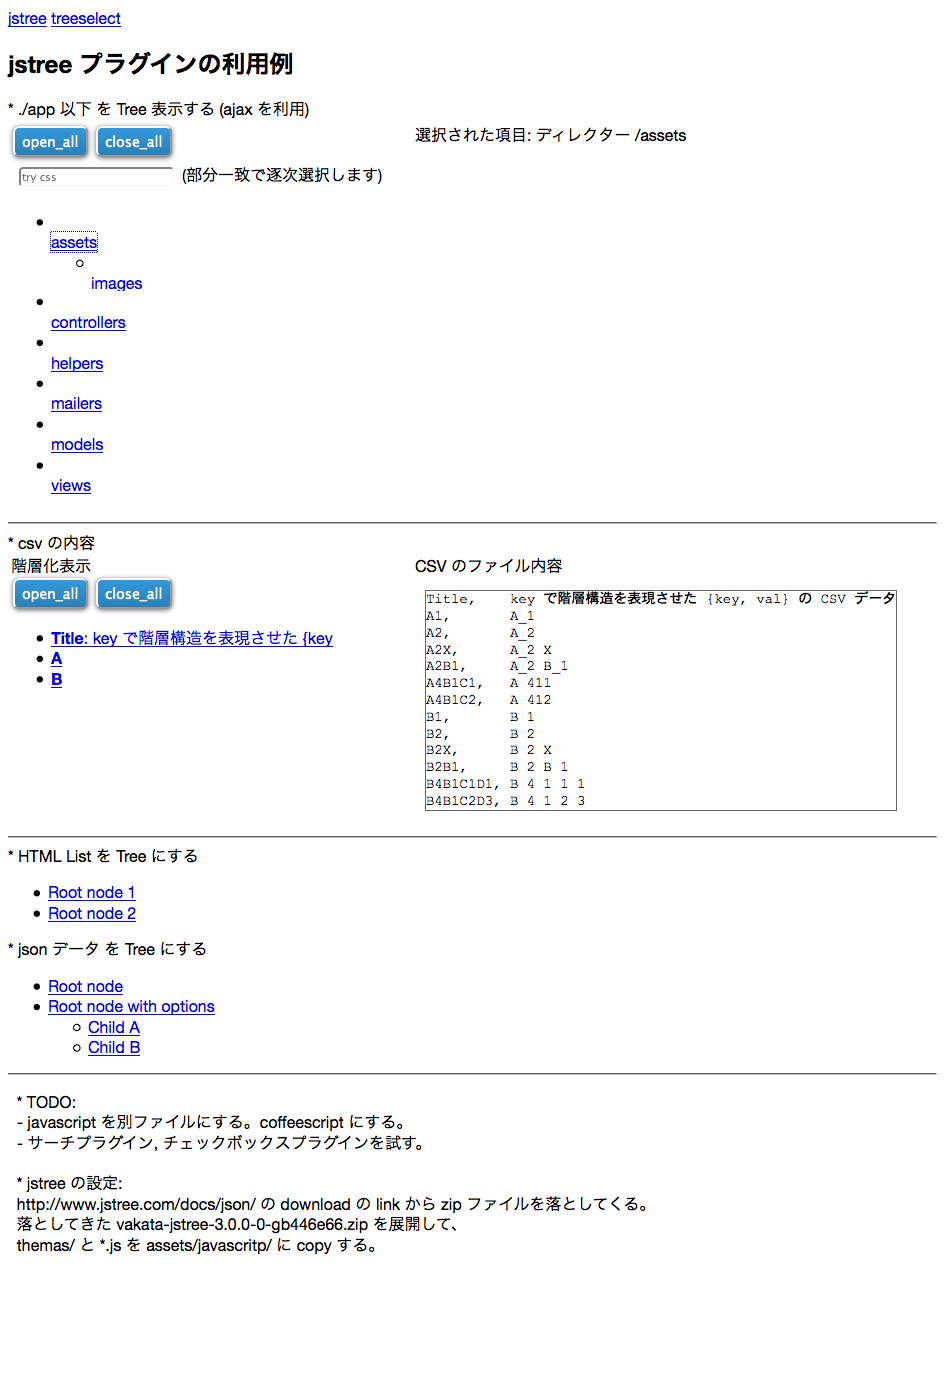
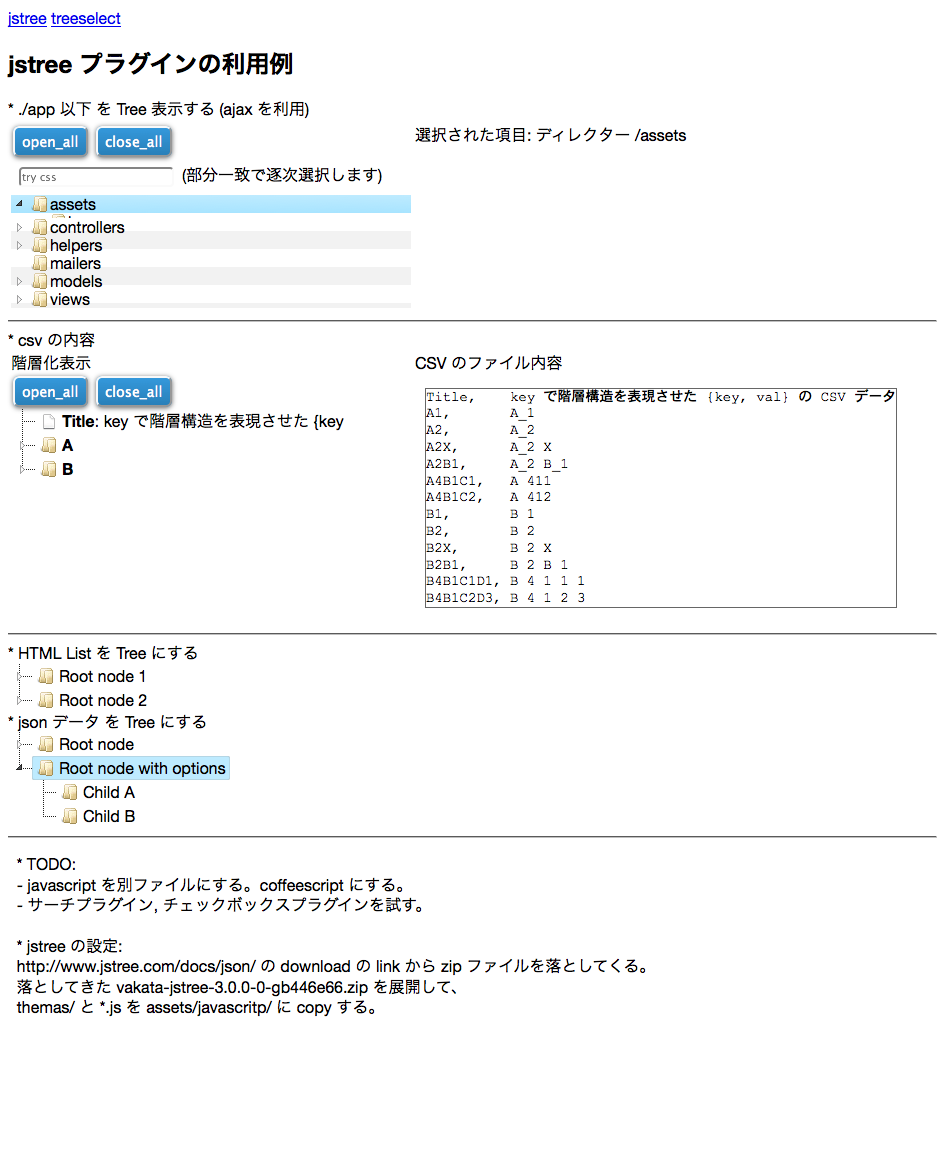
Add style.min.css, the re-run rspec

diff --git a/selenium-htmlshots/0002-sample001_3.html b/selenium-htmlshots/0002-sample001_3.html
@@ -75,7 +75,7 @@
 <script src="/assets/tree.js?body=1" data-turbolinks-track="true"></script>
 <script src="/assets/application.js?body=1" data-turbolinks-track="true"></script>
   <meta name="csrf-param" content="authenticity_token" />
-<meta name="csrf-token" content="QLmimP/zU/uzaaRpNIPjj2ZLkDmb6Mbxb1ecmAOLT4c=" />
+<meta name="csrf-token" content="oxt9ZuXkQH5KMN88gsDRQ/wD/SYuLAnNfnSVvLgOPmM=" />
 
   <meta content="width=device-width, initial-scale=1.0" name="viewport" />
   <link rel="stylesheet" media="all" href="/assets/jquery-ui/theme.css?body=1" />
@@ -151,6 +151,7 @@
 <script src="/assets/tree.js?body=1"></script>
 <script src="/assets/application.js?body=1"></script>
 
+  <link href="/assets/themes/default/style.min.css" rel="stylesheet" />
 </head>
 <body>
 
@@ -393,4 +394,4 @@ B4B1C2D3, B 4 1 2 3</pre>
 
 
 
-</pre><ul class="vakata-context"></ul><div id="jstree-marker" style="display: none;"> </div><ul class="vakata-context"></ul><div id="jstree-marker" style="display: none;"> </div></body><canvas id="fxdriver-screenshot-canvas" style="display: none;" width="32766" height="3318"></canvas></html>
+</pre><ul class="vakata-context"></ul><div id="jstree-marker" style="display: none;"> </div><ul class="vakata-context"></ul><div id="jstree-marker" style="display: none;"> </div></body><canvas id="fxdriver-screenshot-canvas" style="display: none;" width="945" height="2016"></canvas></html>

diff --git a/selenium-htmlshots/0005-sample001_6.html b/selenium-htmlshots/0005-sample001_6.html
@@ -75,7 +75,7 @@
 <script src="/assets/tree.js?body=1" data-turbolinks-track="true"></script>
 <script src="/assets/application.js?body=1" data-turbolinks-track="true"></script>
   <meta name="csrf-param" content="authenticity_token" />
-<meta name="csrf-token" content="QLmimP/zU/uzaaRpNIPjj2ZLkDmb6Mbxb1ecmAOLT4c=" />
+<meta name="csrf-token" content="oxt9ZuXkQH5KMN88gsDRQ/wD/SYuLAnNfnSVvLgOPmM=" />
 
   <meta content="width=device-width, initial-scale=1.0" name="viewport" />
   <link rel="stylesheet" media="all" href="/assets/jquery-ui/theme.css?body=1" />
@@ -151,6 +151,7 @@
 <script src="/assets/tree.js?body=1"></script>
 <script src="/assets/application.js?body=1"></script>
 
+  <link href="/assets/themes/default/style.min.css" rel="stylesheet" />
 </head>
 <body>
 
@@ -631,4 +632,4 @@ B4B1C2D3, B 4 1 2 3</pre>
 
 
 
-</pre><ul class="vakata-context"></ul><div id="jstree-marker" style="display: none;"> </div><ul class="vakata-context"></ul><div id="jstree-marker" style="display: none;"> </div></body><canvas id="fxdriver-screenshot-canvas" style="display: none;" width="1552" height="5076"></canvas></html>
+</pre><ul class="vakata-context"></ul><div id="jstree-marker" style="display: none;"> </div><ul class="vakata-context"></ul><div id="jstree-marker" style="display: none;"> </div></body><canvas id="fxdriver-screenshot-canvas" style="display: none;" width="1552" height="5041"></canvas></html>

diff --git a/selenium-htmlshots/0003-sample001_4.html b/selenium-htmlshots/0003-sample001_4.html
@@ -75,7 +75,7 @@
 <script src="/assets/tree.js?body=1" data-turbolinks-track="true"></script>
 <script src="/assets/application.js?body=1" data-turbolinks-track="true"></script>
   <meta name="csrf-param" content="authenticity_token" />
-<meta name="csrf-token" content="QLmimP/zU/uzaaRpNIPjj2ZLkDmb6Mbxb1ecmAOLT4c=" />
+<meta name="csrf-token" content="oxt9ZuXkQH5KMN88gsDRQ/wD/SYuLAnNfnSVvLgOPmM=" />
 
   <meta content="width=device-width, initial-scale=1.0" name="viewport" />
   <link rel="stylesheet" media="all" href="/assets/jquery-ui/theme.css?body=1" />
@@ -151,6 +151,7 @@
 <script src="/assets/tree.js?body=1"></script>
 <script src="/assets/application.js?body=1"></script>
 
+  <link href="/assets/themes/default/style.min.css" rel="stylesheet" />
 </head>
 <body>
 
@@ -396,4 +397,4 @@ B4B1C2D3, B 4 1 2 3</pre>
 
 
 
-</pre><ul class="vakata-context"></ul><div id="jstree-marker" style="display: none;"> </div><ul class="vakata-context"></ul><div id="jstree-marker" style="display: none;"> </div></body><canvas id="fxdriver-screenshot-canvas" style="display: none;" width="1040" height="3318"></canvas></html>
+</pre><ul class="vakata-context"></ul><div id="jstree-marker" style="display: none;"> </div><ul class="vakata-context"></ul><div id="jstree-marker" style="display: none;"> </div></body><canvas id="fxdriver-screenshot-canvas" style="display: none;" width="945" height="2016"></canvas></html>

diff --git a/selenium-htmlshots/0004-sample001_5.html b/selenium-htmlshots/0004-sample001_5.html
@@ -75,7 +75,7 @@
 <script src="/assets/tree.js?body=1" data-turbolinks-track="true"></script>
 <script src="/assets/application.js?body=1" data-turbolinks-track="true"></script>
   <meta name="csrf-param" content="authenticity_token" />
-<meta name="csrf-token" content="QLmimP/zU/uzaaRpNIPjj2ZLkDmb6Mbxb1ecmAOLT4c=" />
+<meta name="csrf-token" content="oxt9ZuXkQH5KMN88gsDRQ/wD/SYuLAnNfnSVvLgOPmM=" />
 
   <meta content="width=device-width, initial-scale=1.0" name="viewport" />
   <link rel="stylesheet" media="all" href="/assets/jquery-ui/theme.css?body=1" />
@@ -151,6 +151,7 @@
 <script src="/assets/tree.js?body=1"></script>
 <script src="/assets/application.js?body=1"></script>
 
+  <link href="/assets/themes/default/style.min.css" rel="stylesheet" />
 </head>
 <body>
 
@@ -631,4 +632,4 @@ B4B1C2D3, B 4 1 2 3</pre>
 
 
 
-</pre><ul class="vakata-context"></ul><div id="jstree-marker" style="display: none;"> </div><ul class="vakata-context"></ul><div id="jstree-marker" style="display: none;"> </div></body><canvas id="fxdriver-screenshot-canvas" style="display: none;" width="1552" height="5076"></canvas></html>
+</pre><ul class="vakata-context"></ul><div id="jstree-marker" style="display: none;"> </div><ul class="vakata-context"></ul><div id="jstree-marker" style="display: none;"> </div></body><canvas id="fxdriver-screenshot-canvas" style="display: none;" width="945" height="2016"></canvas></html>

diff --git a/selenium-htmlshots/0000-sample001_1.html b/selenium-htmlshots/0000-sample001_1.html
@@ -75,7 +75,7 @@
 <script src="/assets/tree.js?body=1" data-turbolinks-track="true"></script>
 <script src="/assets/application.js?body=1" data-turbolinks-track="true"></script>
   <meta name="csrf-param" content="authenticity_token" />
-<meta name="csrf-token" content="QLmimP/zU/uzaaRpNIPjj2ZLkDmb6Mbxb1ecmAOLT4c=" />
+<meta name="csrf-token" content="oxt9ZuXkQH5KMN88gsDRQ/wD/SYuLAnNfnSVvLgOPmM=" />
 
   <meta content="width=device-width, initial-scale=1.0" name="viewport" />
   <link rel="stylesheet" media="all" href="/assets/jquery-ui/theme.css?body=1" />
@@ -151,6 +151,7 @@
 <script src="/assets/tree.js?body=1"></script>
 <script src="/assets/application.js?body=1"></script>
 
+  <link href="/assets/themes/default/style.min.css" rel="stylesheet" />
 </head>
 <body>
 
@@ -393,4 +394,4 @@ B4B1C2D3, B 4 1 2 3</pre>
 
 
 
-</pre><ul class="vakata-context"></ul><div id="jstree-marker" style="display: none;"> </div><ul class="vakata-context"></ul><div id="jstree-marker" style="display: none;"> </div></body><canvas id="fxdriver-screenshot-canvas" style="display: none;" width="945" height="1355"></canvas></html>
+</pre><ul class="vakata-context"></ul><div id="jstree-marker" style="display: none;"> </div><ul class="vakata-context"></ul><div id="jstree-marker" style="display: none;"> </div></body><canvas id="fxdriver-screenshot-canvas" style="display: none;" width="945" height="1152"></canvas></html>

diff --git a/selenium-htmlshots/0001-sample001_2.html b/selenium-htmlshots/0001-sample001_2.html
@@ -75,7 +75,7 @@
 <script src="/assets/tree.js?body=1" data-turbolinks-track="true"></script>
 <script src="/assets/application.js?body=1" data-turbolinks-track="true"></script>
   <meta name="csrf-param" content="authenticity_token" />
-<meta name="csrf-token" content="QLmimP/zU/uzaaRpNIPjj2ZLkDmb6Mbxb1ecmAOLT4c=" />
+<meta name="csrf-token" content="oxt9ZuXkQH5KMN88gsDRQ/wD/SYuLAnNfnSVvLgOPmM=" />
 
   <meta content="width=device-width, initial-scale=1.0" name="viewport" />
   <link rel="stylesheet" media="all" href="/assets/jquery-ui/theme.css?body=1" />
@@ -151,6 +151,7 @@
 <script src="/assets/tree.js?body=1"></script>
 <script src="/assets/application.js?body=1"></script>
 
+  <link href="/assets/themes/default/style.min.css" rel="stylesheet" />
 </head>
 <body>
 
@@ -393,4 +394,4 @@ B4B1C2D3, B 4 1 2 3</pre>
 
 
 
-</pre><ul class="vakata-context"></ul><div id="jstree-marker" style="display: none;"> </div><ul class="vakata-context"></ul><div id="jstree-marker" style="display: none;"> </div></body><canvas id="fxdriver-screenshot-canvas" style="display: none;" width="945" height="3318"></canvas></html>
+</pre><ul class="vakata-context"></ul><div id="jstree-marker" style="display: none;"> </div><ul class="vakata-context"></ul><div id="jstree-marker" style="display: none;"> </div></body><canvas id="fxdriver-screenshot-canvas" style="display: none;" width="945" height="2016"></canvas></html>

diff --git a/selenium-htmlshots/0006-sample001_7.html b/selenium-htmlshots/0006-sample001_7.html
@@ -75,7 +75,7 @@
 <script src="/assets/tree.js?body=1" data-turbolinks-track="true"></script>
 <script src="/assets/application.js?body=1" data-turbolinks-track="true"></script>
   <meta name="csrf-param" content="authenticity_token" />
-<meta name="csrf-token" content="QLmimP/zU/uzaaRpNIPjj2ZLkDmb6Mbxb1ecmAOLT4c=" />
+<meta name="csrf-token" content="oxt9ZuXkQH5KMN88gsDRQ/wD/SYuLAnNfnSVvLgOPmM=" />
 
   <meta content="width=device-width, initial-scale=1.0" name="viewport" />
   <link rel="stylesheet" media="all" href="/assets/jquery-ui/theme.css?body=1" />
@@ -151,6 +151,7 @@
 <script src="/assets/tree.js?body=1"></script>
 <script src="/assets/application.js?body=1"></script>
 
+  <link href="/assets/themes/default/style.min.css" rel="stylesheet" />
 </head>
 <body>
 
@@ -393,4 +394,4 @@ B4B1C2D3, B 4 1 2 3</pre>
 
 
 
-</pre><ul class="vakata-context"></ul><div id="jstree-marker" style="display: none;"> </div><ul class="vakata-context"></ul><div id="jstree-marker" style="display: none;"> </div></body><canvas id="fxdriver-screenshot-canvas" style="display: none;" width="945" height="1394"></canvas></html>
+</pre><ul class="vakata-context"></ul><div id="jstree-marker" style="display: none;"> </div><ul class="vakata-context"></ul><div id="jstree-marker" style="display: none;"> </div></body><canvas id="fxdriver-screenshot-canvas" style="display: none;" width="945" height="1156"></canvas></html>

diff --git a/selenium-htmlshots/0007-sample001_8.html b/selenium-htmlshots/0007-sample001_8.html
@@ -75,7 +75,7 @@
 <script src="/assets/tree.js?body=1" data-turbolinks-track="true"></script>
 <script src="/assets/application.js?body=1" data-turbolinks-track="true"></script>
   <meta name="csrf-param" content="authenticity_token" />
-<meta name="csrf-token" content="QLmimP/zU/uzaaRpNIPjj2ZLkDmb6Mbxb1ecmAOLT4c=" />
+<meta name="csrf-token" content="oxt9ZuXkQH5KMN88gsDRQ/wD/SYuLAnNfnSVvLgOPmM=" />
 
   <meta content="width=device-width, initial-scale=1.0" name="viewport" />
   <link rel="stylesheet" media="all" href="/assets/jquery-ui/theme.css?body=1" />
@@ -151,6 +151,7 @@
 <script src="/assets/tree.js?body=1"></script>
 <script src="/assets/application.js?body=1"></script>
 
+  <link href="/assets/themes/default/style.min.css" rel="stylesheet" />
 </head>
 <body>
 
@@ -393,4 +394,4 @@ B4B1C2D3, B 4 1 2 3</pre>
 
 
 
-</pre><ul class="vakata-context"></ul><div id="jstree-marker" style="display: none;"> </div><ul class="vakata-context"></ul><div id="jstree-marker" style="display: none;"> </div></body><canvas id="fxdriver-screenshot-canvas" style="display: none;" width="945" height="1890"></canvas></html>
+</pre><ul class="vakata-context"></ul><div id="jstree-marker" style="display: none;"> </div><ul class="vakata-context"></ul><div id="jstree-marker" style="display: none;"> </div></body><canvas id="fxdriver-screenshot-canvas" style="display: none;" width="945" height="1689"></canvas></html>
